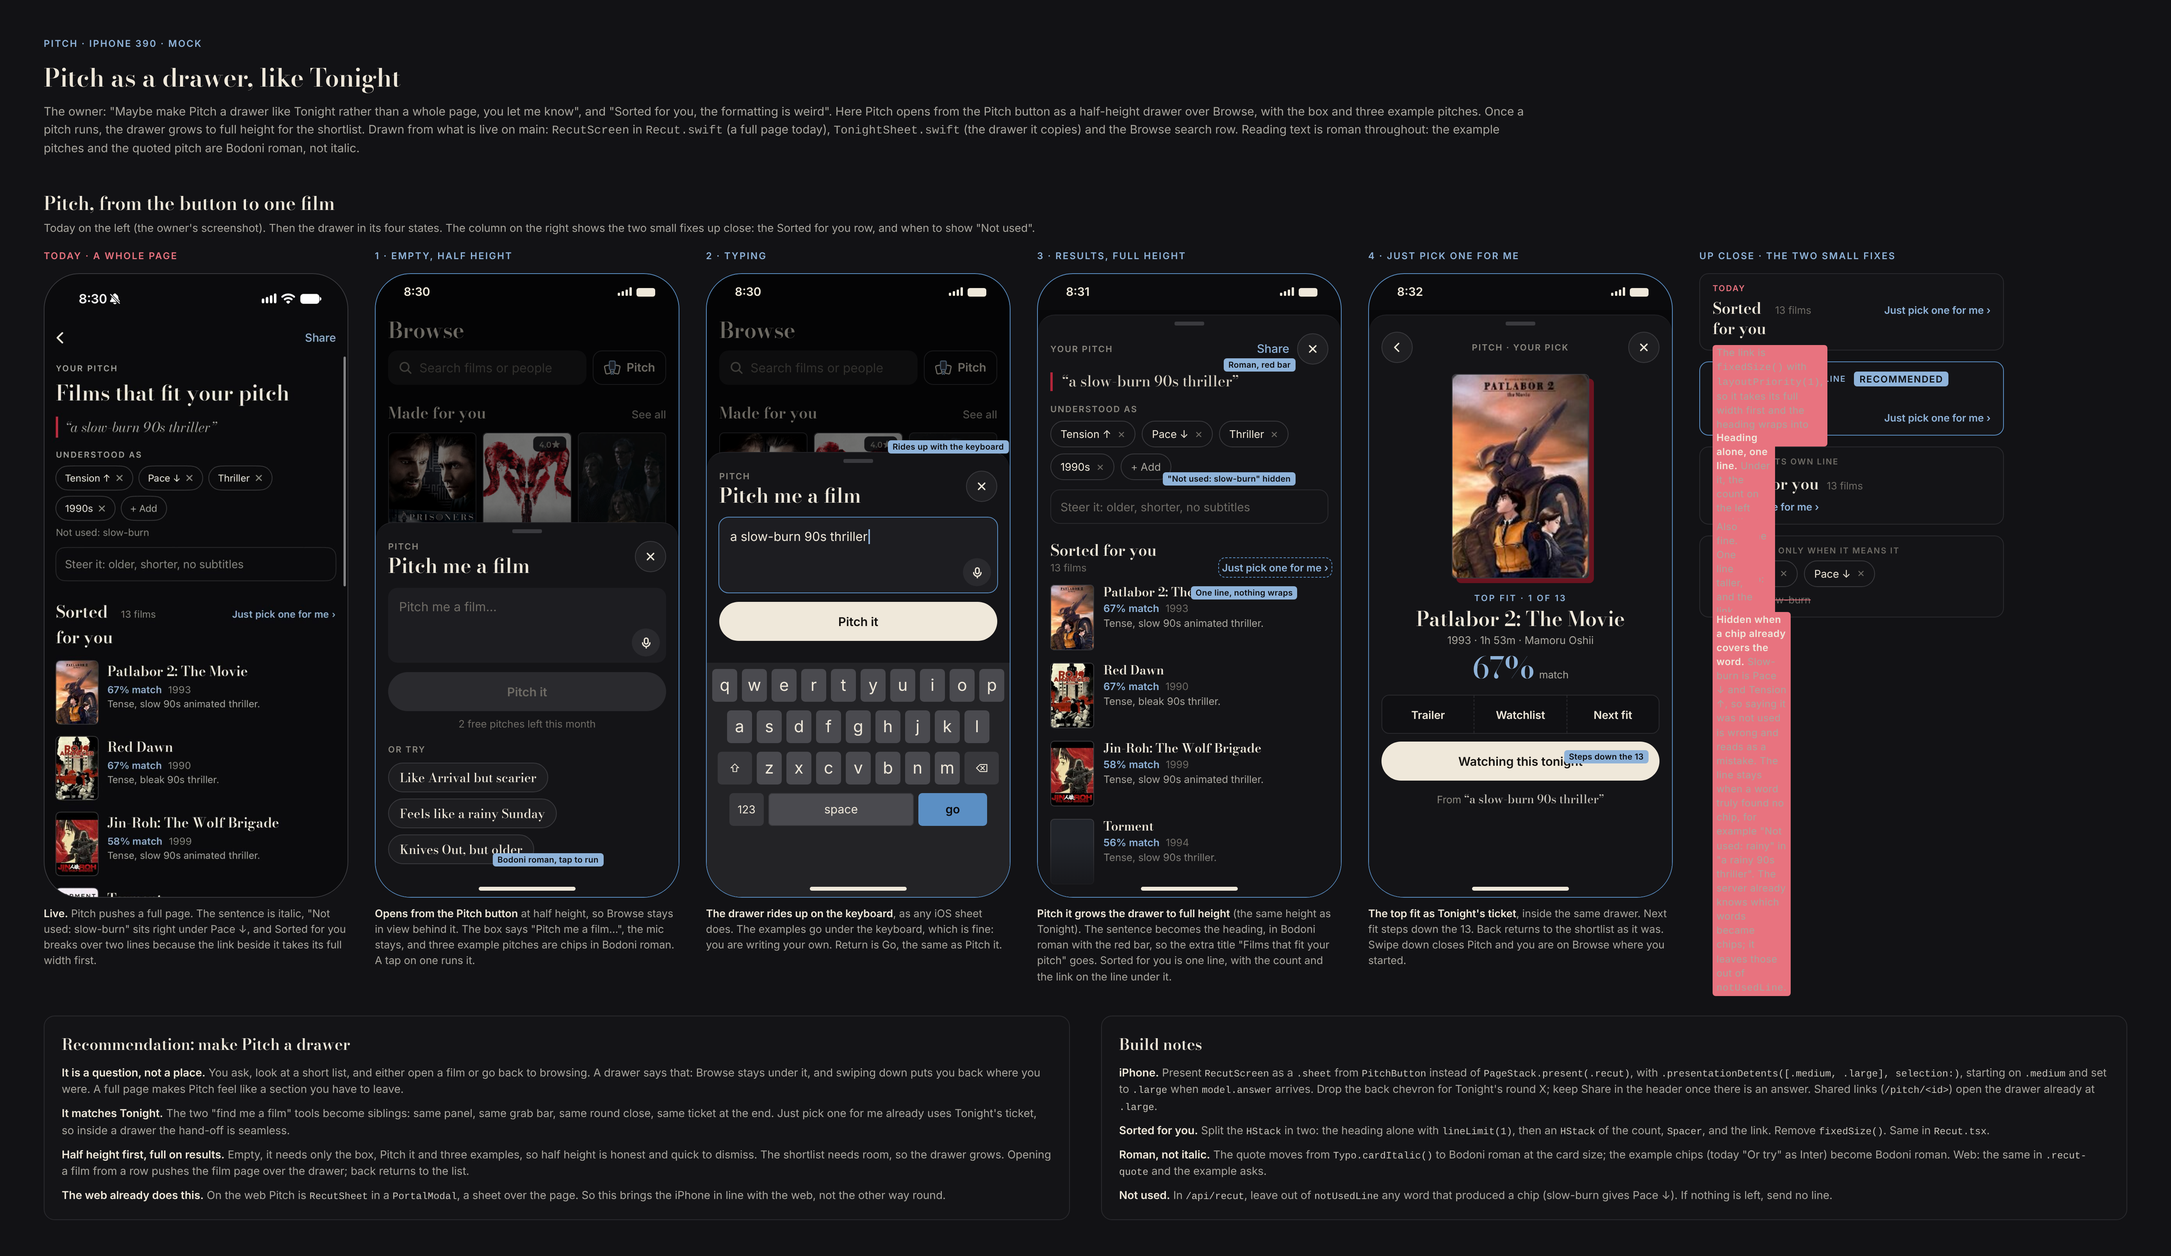
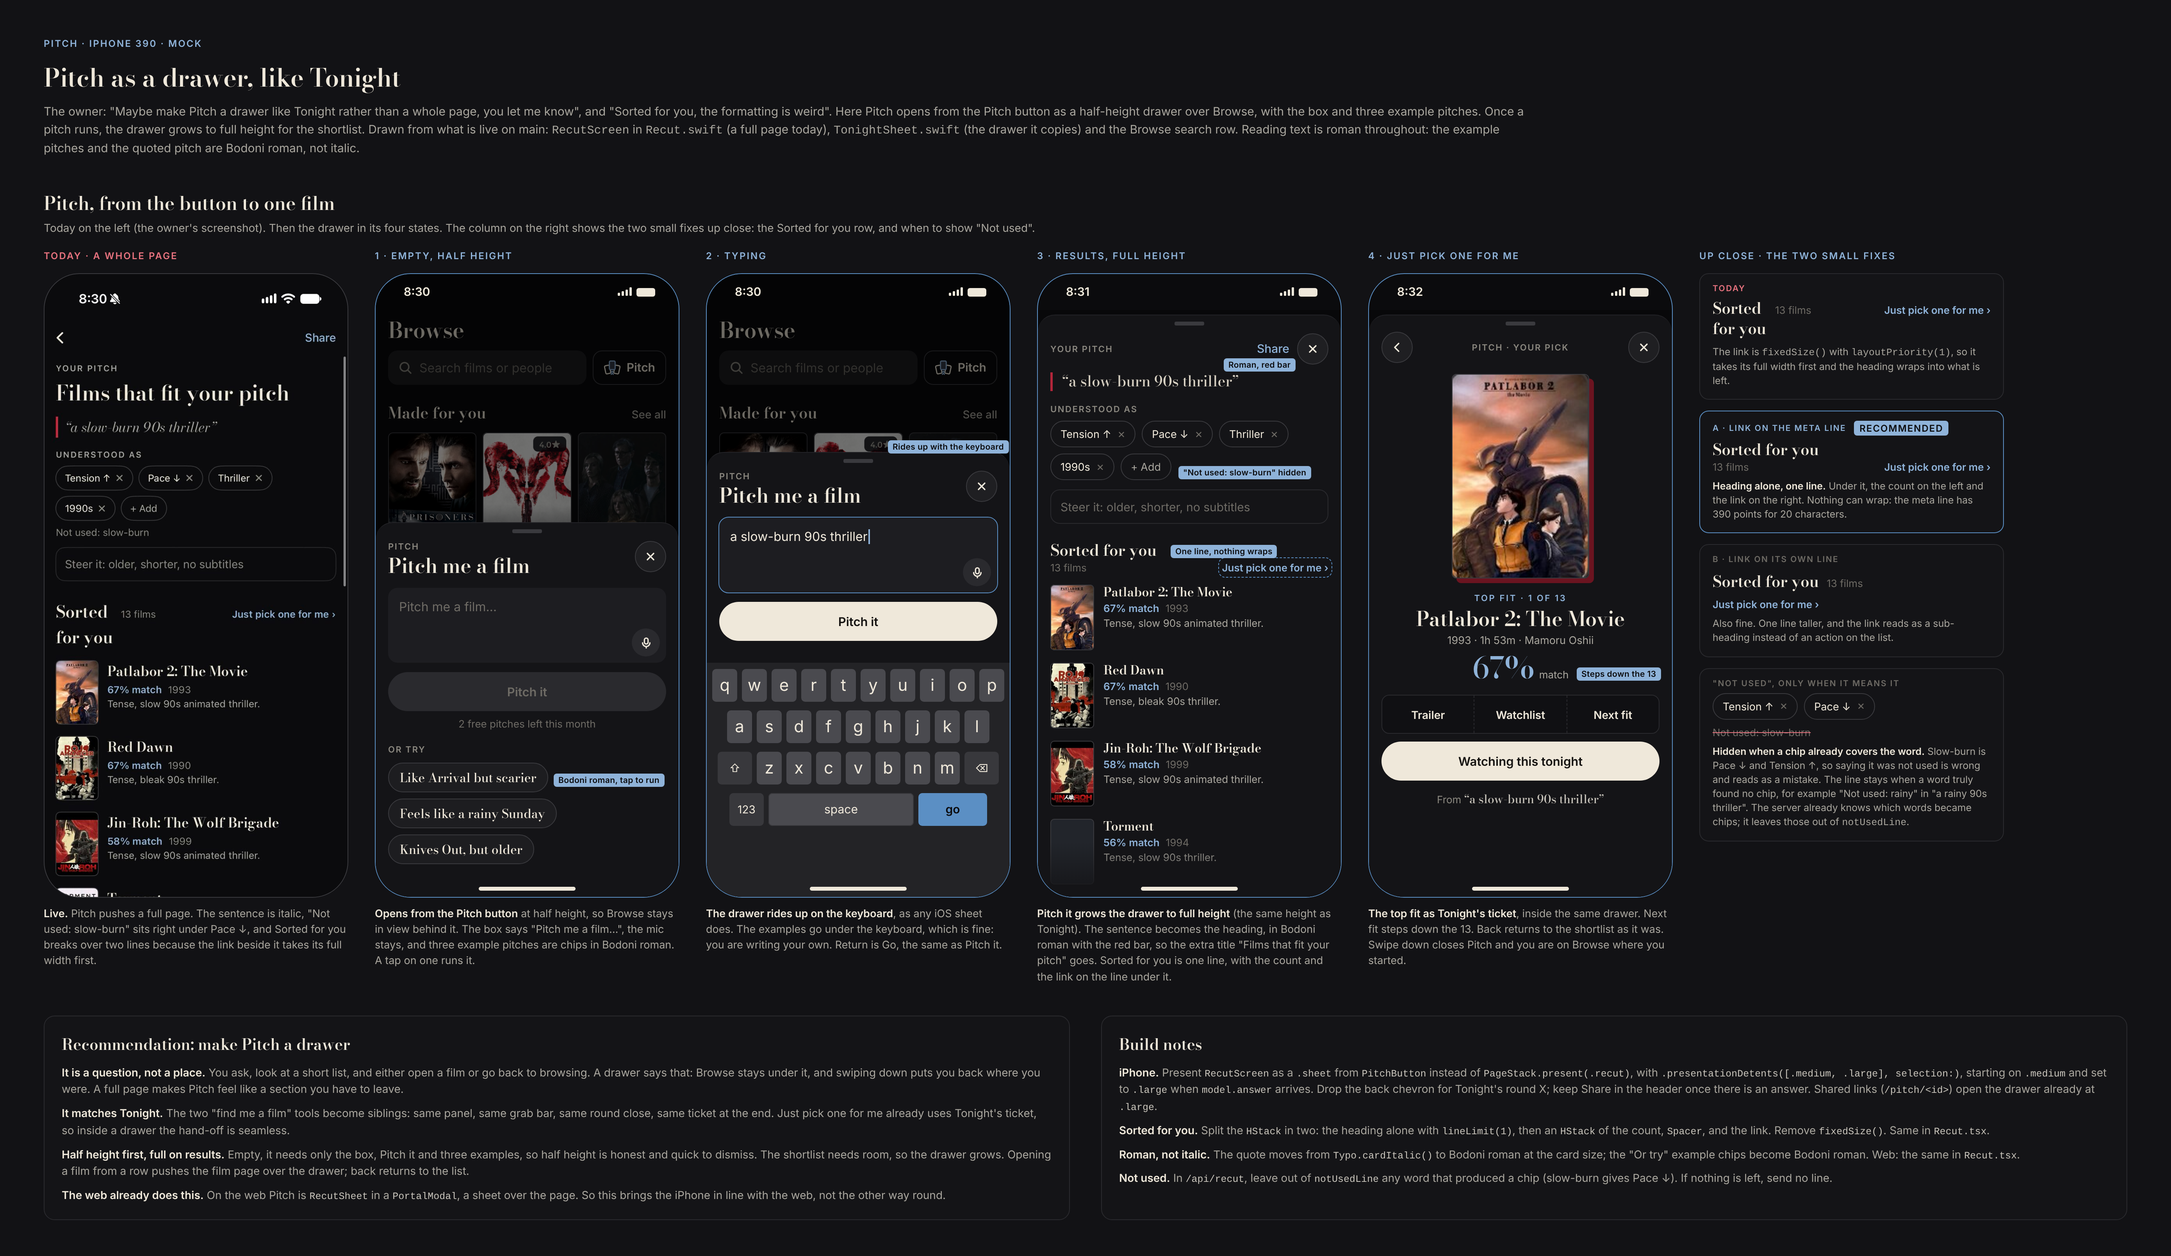
Pitch drawer v1 and search vs Pitch v1: drawer states, Sorted for you fix, separate jobs with a bridge
Claude-Session: https://claude.ai/code/session_013WRDCFXH8nihP92apJAVW7

diff --git a/mockups/journeys/pitch-search-v1.html b/mockups/journeys/pitch-search-v1.html
@@ -1,0 +1,93 @@
+<!doctype html><html><head><meta charset="utf-8"><title>Search and Pitch</title>
+<link href="https://fonts.googleapis.com/css2?family=Bodoni+Moda:ital,opsz,wght@0,6..96,500;0,6..96,600&family=Inter:wght@400;500;600;700&display=block" rel="stylesheet">
+<link rel="stylesheet" href="../proportions-common.css"><link rel="stylesheet" href="beli.css"><link rel="stylesheet" href="owner-notes.css"><link rel="stylesheet" href="pitch-kit.css">
+<style>
+.alt{flex:none;width:640px;border:1px dashed #3A3A3E;border-radius:16px;padding:16px 18px 18px;margin-left:16px}
+.alt .row{gap:18px}.alt .row>div{width:281px}
+.alt .sm{width:390px;height:800px;transform:scale(.72);transform-origin:0 0}
+.alt .holder{width:281px;height:576px;position:relative}
+.alt .holder .phone{position:absolute;left:0;top:0}
+.alt h3{font:600 20px 'Bodoni Moda';margin:4px 0 4px}
+.alt .cap{max-width:281px;font-size:12.5px}
+.grp{font:600 11px Inter;letter-spacing:1.3px;text-transform:uppercase;color:#8A877F;margin-top:18px}
+</style></head><body>
+<div class="tag">Browse search and Pitch · iPhone 390 · mock</div>
+<h1>Search for what you know, Pitch for what you don't</h1>
+<p class="lede">The owner: "Should we keep Describe and regular search separate, or put them together?" Today they are half merged: the field says "Describe a film, or a title", its open state leads with three italic "Describe it" sentences, and a sentence typed there can turn into a Pitch. Here they get one job each. The search field finds things you can name: a film, a person. The Pitch button (and its drawer, see <code>pitch-drawer-v1</code>) is for a film you can only describe. When someone types a sentence into search anyway, one row offers to Pitch it instead, and nothing is spent until they say so.</p>
+
+<div style="display:flex;align-items:flex-start">
+<div>
+<div class="h2">Recommended: two jobs, one bridge</div>
+<p class="h2s">Today on the left, then search open, a title typed, a sentence typed, and the Pitch drawer it opens.</p>
+<div class="row">
+<div><div class="tag bad">Today · search open</div><div class="phone" style="background:url(../img/owner-search-today.jpg) top center/390px auto no-repeat"></div>
+<p class="cap"><b>Live.</b> "Describe a film, or a title" asks two things at once. Describe it, with three italic sentences, fills the top of the screen above the filters and your recent searches.</p></div>
+
+<div><div class="tag">1 · Search open</div><div class="phone new" id="s1"></div>
+<p class="cap"><b>"Search films or people".</b> The Describe it sentences go, so filters and Recent move up to where your thumb is. Describing a film lives on the Pitch button, which stays pinned beside the field on Browse.</p></div>
+
+<div><div class="tag">2 · A title</div><div class="phone new" id="s2"></div>
+<p class="cap"><b>A name stays a search.</b> Two words, no cue words: titles and people, exactly as now, with no Pitch row competing for the top.</p></div>
+
+<div><div class="tag">3 · A sentence</div><div class="phone new" id="s3"></div>
+<p class="cap"><b>"Pitch this instead ›" on top</b> once the query reads like a sentence: four or more words, or a cue word such as like, but, something, for when, feels. Ordinary results still follow, so a long real title ("Something Wild", "Like Crazy") is still one row down.</p></div>
+
+<div><div class="tag">4 · The drawer, prefilled</div><div class="phone new" id="s4"></div>
+<p class="cap"><b>Opens Pitch at half height with the sentence in the box.</b> It does not run on its own: Pitch it spends one of the free pitches, so that stays one deliberate tap. Return in the search field still searches.</p></div>
+</div>
+</div>
+
+<div class="alt">
+<div class="tag" style="color:#A9A69E">Alternative · one merged box</div>
+<h3>No Pitch button, Pitch is a row</h3>
+<p class="cap" style="max-width:600px;margin:0 0 12px">One field for everything. The Pitch button goes, and a sentence turns into a Pitch row at the top of the results.</p>
+<div class="row">
+<div><div class="holder"><div class="phone sm" id="m1"></div></div>
+<p class="cap"><b>Open.</b> The placeholder has to explain two jobs, and with no button nothing on screen says Pitch exists until you type a sentence.</p></div>
+<div><div class="holder"><div class="phone sm" id="m2"></div></div>
+<p class="cap"><b>A sentence.</b> Works, and it is tidy. But Pitch, the feature with its own name and a monthly allowance, is reduced to a search result most people never trigger.</p></div>
+</div>
+</div>
+</div>
+
+<div class="verdict">
+<div class="vc"><h3>Recommendation: keep them separate, with one bridge</h3>
+<p><b>Two different questions.</b> Search answers "where is the thing I can name", and wants to be instant, free and literal. Pitch answers "what should I watch that is like this", is slower, ranked by your match, and counts against free pitches. One box that tries to guess which you meant gets both a little wrong: today a title can be mistaken for a description, and the field's open state is half filled with prompts for the other job.</p>
+<p><b>The button keeps Pitch discoverable.</b> It is pinned beside the field with its own mark, and opens the drawer. The merged box hides Pitch behind typing a sentence, which most people will not try in a search field.</p>
+<p><b>The bridge catches the rest.</b> When a sentence lands in search, the top row offers Pitch, and the drawer opens with the sentence already in it. Nobody has to retype, and nobody spends a pitch by accident.</p></div>
+<div class="vc"><h3>Build notes</h3>
+<p><b>iPhone.</b> In <code>BrowseScreen</code>, the placeholder becomes "Search films or people" whether or not Pitch is on; remove <code>describeIt</code> from the empty state. <code>recutRow</code> becomes "Pitch this instead ›" with the sentence under it, and opens the Pitch drawer with the sentence as a prefill (<code>RecutLink(prefill:)</code>, not <code>sentence:</code>, so it does not run). <code>onSubmit</code> stops calling <code>openRecut</code>: Return searches.</p>
+<p><b>The sentence test.</b> Widen <code>RecutEntry.looksLikeDescription</code>: true at four or more words, or any of like, but, something, anything, for when, feels, meets; still false when the query is exactly a film's title.</p>
+<p><b>Web.</b> The same in <code>GlobalSearch.tsx</code> and <code>BrowseHub.tsx</code> (placeholder), the Describe it block in <code>Recut.tsx</code> goes, and its search row opens <code>RecutSheet</code> on its ask with the sentence filled in.</p></div>
+</div>
+
+<script src="pitch-kit.js"></script>
+<script>
+const BAR=(q,f,ph)=>`<div class="sbar"><div class="fld${f?' f':''}">${GLASS}${q||ph||'Search films or people'}${f?'<span style="display:inline-block;width:2px;height:19px;background:#8FB3D9;margin-left:1px"></span>':''}</div><span class="cancel">Cancel</span></div>`;
+const FCH=`<div class="fch"><span class="on">${SLIDERS}Every film</span><span>Hidden gems</span><span>Highest rated</span><span>New</span></div>`;
+const rr=(p,a,b,x)=>`<div class="rr">${p.startsWith('@')?`<div class="face">${p.slice(1)}</div>`:`<div class="po" style="background-image:url(../img/${p})"></div>`}<div class="tx"><div class="a">${a}</div><div class="b">${b}</div></div>${x?'<span class="xx">✕</span>':''}</div>`;
+const RECENT=rr('prisoners.png','Prisoners','2013 · Denis Villeneuve',1)+rr('wailing.png','The Wailing','2016 · Na Hong-jin',1)+rr('hereditary.png','Hereditary','2018 · Ari Aster',1)+rr('inception.png','Inception','2010 · Christopher Nolan',1)+rr('@DV','Denis Villeneuve','Director · 7 of 11 seen · avg 4.5★',1);
+const openState=(ph)=>SBAR('8:31')+BAR('',false,ph)+`<div class="sc">${FCH}<div class="hrow"><h4>Recent</h4><span>Clear</span></div>${RECENT}<div class="hrow" style="margin-top:20px"><h4>Your people are watching</h4></div>
+<div style="display:flex;gap:10px;margin-top:10px">${['midsommar','witch','suspiria'].map(p=>`<div class="po" style="width:110px;height:150px;background-image:url(../img/${p}.png)"></div>`).join('')}</div></div>${HOME}`;
+document.getElementById('s1').innerHTML=openState()+`<span class="callout" style="left:120px;top:204px">Describe it removed</span>`;
+document.getElementById('s2').innerHTML=SBAR('8:31')+BAR('prisoners',true)+`<div class="sc"><div class="grp">Films</div>`+
+rr('prisoners.png','Prisoners','2013 · Denis Villeneuve · 4.5★')+rr('wailing.png','Prisoners of the Ghostland','2021 · Sion Sono')+
+`<div class="grp">People</div>`+rr('@HJ','Hugh Jackman','Actor in Prisoners')+rr('@JG','Jake Gyllenhaal','Actor in Prisoners')+`</div>${KEYS('search')}${HOME}`;
+document.getElementById('s3').innerHTML=SBAR('8:32')+BAR('something like prisoners but korean',true)+`<div class="sc">
+<div class="pitchrow hl"><div class="pm">${FAN}</div><div style="min-width:0"><div class="a">Pitch this instead ›</div><div class="b">Films that fit “something like prisoners but korean”, sorted for you</div></div></div>
+<div class="grp">Films</div>`+rr('prisoners.png','Prisoners','2013 · Denis Villeneuve · 4.5★')+`</div>${KEYS('search')}${HOME}
+<span class="callout" style="left:150px;top:112px">Sentence: 5 words, "like", "but"</span>`;
+document.getElementById('s4').innerHTML=SBAR('8:32')+BAR('something like prisoners but korean',false)+`<div class="dim"></div><div class="dw" style="top:318px"><div class="grab"></div>
+<div class="hd"><div><div class="lbl">Pitch</div><div class="t">Pitch me a film</div></div>${X}</div>
+<div class="sc"><div class="box f" style="outline:0">something like prisoners but korean${MIC}</div>
+<div class="go">Pitch it</div>
+<div class="free">2 free pitches left this month</div>
+<div class="lbl" style="margin-top:18px">Or try</div>
+<div class="ex">${EXAMPLES.slice(0,2).map(e=>`<span>${e}</span>`).join('')}</div></div></div>${HOME}
+<span class="callout" style="left:30px;top:462px">Prefilled, not run yet</span>`;
+// alternative: merged
+document.getElementById('m1').innerHTML=openState('Search, or describe a film');
+document.getElementById('m2').innerHTML=SBAR('8:32')+BAR('something like prisoners but korean',true)+`<div class="sc">
+<div class="pitchrow"><div class="pm">${FAN}</div><div style="min-width:0"><div class="a">Pitch “something like prisoners but korean”</div><div class="b">2 free pitches left this month</div></div></div>
+<div class="grp">Films</div>`+rr('prisoners.png','Prisoners','2013 · Denis Villeneuve · 4.5★')+`</div>${KEYS('search')}${HOME}`;
+</script></body></html>

diff --git a/mockups/journeys/pitch-drawer-v1.html b/mockups/journeys/pitch-drawer-v1.html
@@ -5,7 +5,7 @@
 .mini{border:1px solid #2A2A2E;border-radius:12px;background:#141417;padding:12px 16px 14px;margin-bottom:14px}
 .mini .lab{font:600 10.5px Inter;letter-spacing:1.2px;color:#6E6B65;text-transform:uppercase;margin-bottom:6px;display:flex;align-items:center;gap:6px}
 .mini .lab.g{color:#8FB3D9}.mini .lab.bad{color:#E8737F}
-.mini .note{font:400 12.5px/1.45 Inter;color:#A9A69E;margin-top:8px}.mini .note b{color:#EFE8DA;font-weight:600}
+.mini .mn{font:400 12.5px/1.45 Inter;color:#A9A69E;margin-top:8px}.mini .mn b{color:#EFE8DA;font-weight:600}
 .broken{display:flex;align-items:baseline;gap:10px}
 .broken h4{font:600 20px/1.3 'Bodoni Moda';width:70px;white-space:normal}
 .broken .n{font:400 13px Inter;color:#6E6B65}.broken .ql{margin-left:auto}
@@ -38,18 +38,18 @@
 <div class="tag">Up close · the two small fixes</div>
 <div class="mini"><div class="lab bad">Today</div>
 <div class="broken"><h4>Sorted for you</h4><span class="n">13 films</span><span class="ql">Just pick one for me ›</span></div>
-<div class="note">The link is <code>fixedSize()</code> with <code>layoutPriority(1)</code>, so it takes its full width first and the heading wraps into what is left.</div></div>
+<div class="mn">The link is <code>fixedSize()</code> with <code>layoutPriority(1)</code>, so it takes its full width first and the heading wraps into what is left.</div></div>
 <div class="mini" style="border-color:#5B8FC4"><div class="lab g">A · Link on the meta line <span class="tag rec">Recommended</span></div>
 <div class="srt" style="margin-top:0"><h4>Sorted for you</h4><div class="ml"><span class="n">13 films</span><span class="ql">Just pick one for me ›</span></div></div>
-<div class="note"><b>Heading alone, one line.</b> Under it, the count on the left and the link on the right. Nothing can wrap: the meta line has 390 points for 20 characters.</div></div>
+<div class="mn"><b>Heading alone, one line.</b> Under it, the count on the left and the link on the right. Nothing can wrap: the meta line has 390 points for 20 characters.</div></div>
 <div class="mini"><div class="lab">B · Link on its own line</div>
 <div style="display:flex;align-items:baseline;gap:10px"><span style="font:600 20px 'Bodoni Moda'">Sorted for you</span><span class="n" style="font:400 13px Inter;color:#6E6B65">13 films</span></div>
 <div class="ql" style="margin-top:6px">Just pick one for me ›</div>
-<div class="note">Also fine. One line taller, and the link reads as a sub-heading instead of an action on the list.</div></div>
+<div class="mn">Also fine. One line taller, and the link reads as a sub-heading instead of an action on the list.</div></div>
 <div class="mini"><div class="lab">"Not used", only when it means it</div>
 <div class="pcs" style="margin-top:2px"><span class="pc">Tension ↑ <i>✕</i></span><span class="pc">Pace ↓ <i>✕</i></span></div>
 <div class="nu strike">Not used: slow-burn</div>
-<div class="note"><b>Hidden when a chip already covers the word.</b> Slow-burn is Pace ↓ and Tension ↑, so saying it was not used is wrong and reads as a mistake. The line stays when a word truly found no chip, for example "Not used: rainy" in "a rainy 90s thriller". The server already knows which words became chips; it leaves those out of <code>notUsedLine</code>.</div></div>
+<div class="mn"><b>Hidden when a chip already covers the word.</b> Slow-burn is Pace ↓ and Tension ↑, so saying it was not used is wrong and reads as a mistake. The line stays when a word truly found no chip, for example "Not used: rainy" in "a rainy 90s thriller". The server already knows which words became chips; it leaves those out of <code>notUsedLine</code>.</div></div>
 </div>
 </div>
 
@@ -62,7 +62,7 @@
 <div class="vc"><h3>Build notes</h3>
 <p><b>iPhone.</b> Present <code>RecutScreen</code> as a <code>.sheet</code> from <code>PitchButton</code> instead of <code>PageStack.present(.recut)</code>, with <code>.presentationDetents([.medium, .large], selection:)</code>, starting on <code>.medium</code> and set to <code>.large</code> when <code>model.answer</code> arrives. Drop the back chevron for Tonight's round X; keep Share in the header once there is an answer. Shared links (<code>/pitch/&lt;id&gt;</code>) open the drawer already at <code>.large</code>.</p>
 <p><b>Sorted for you.</b> Split the <code>HStack</code> in two: the heading alone with <code>lineLimit(1)</code>, then an <code>HStack</code> of the count, <code>Spacer</code>, and the link. Remove <code>fixedSize()</code>. Same in <code>Recut.tsx</code>.</p>
-<p><b>Roman, not italic.</b> The quote moves from <code>Typo.cardItalic()</code> to Bodoni roman at the card size; the example chips (today "Or try" as Inter) become Bodoni roman. Web: the same in <code>.recut-quote</code> and the example asks.</p>
+<p><b>Roman, not italic.</b> The quote moves from <code>Typo.cardItalic()</code> to Bodoni roman at the card size; the "Or try" example chips become Bodoni roman. Web: the same in <code>Recut.tsx</code>.</p>
 <p><b>Not used.</b> In <code>/api/recut</code>, leave out of <code>notUsedLine</code> any word that produced a chip (slow-burn gives Pace ↓). If nothing is left, send no line.</p></div>
 </div>
 
@@ -77,7 +77,7 @@ document.getElementById('d1').innerHTML=SBAR('8:30')+under+`<div class="dw" styl
 <div class="free">2 free pitches left this month</div>
 <div class="lbl" style="margin-top:18px">Or try</div>
 <div class="ex">${EXAMPLES.map(e=>`<span>${e}</span>`).join('')}</div></div></div>${HOME}
-<span class="callout" style="left:150px;top:742px">Bodoni roman, tap to run</span>`;
+<span class="callout" style="left:228px;top:640px">Bodoni roman, tap to run</span>`;
 // 2 · typing
 document.getElementById('d2').innerHTML=SBAR('8:30')+under+`<div class="dw" style="top:228px"><div class="grab"></div>
 <div class="hd"><div><div class="lbl">Pitch</div><div class="t">Pitch me a film</div></div>${X}</div>
@@ -95,8 +95,8 @@ ${SORTED(true)}
 <div style="margin-top:6px">${FILMS.map(frow).join('')}</div></div>
 <div class="fade"></div></div>${HOME}
 <span class="callout" style="left:238px;top:108px">Roman, red bar</span>
-<span class="callout" style="left:160px;top:254px">"Not used: slow-burn" hidden</span>
-<span class="callout" style="left:196px;top:400px">One line, nothing wraps</span>`;
+<span class="callout" style="left:180px;top:246px">"Not used: slow-burn" hidden</span>
+<span class="callout" style="left:170px;top:347px">One line, nothing wraps</span>`;
 // 4 · just pick one
 document.getElementById('d4').innerHTML=SBAR('8:32')+`<div style="position:absolute;inset:46px 0 0;background:#08080A"></div><div class="dw" style="top:52px"><div class="grab"></div>
 <div class="hd" style="align-items:center;padding-top:8px">${BACK}<span class="lbl">Pitch · Your pick</span>${X}</div>
@@ -110,5 +110,5 @@ document.getElementById('d4').innerHTML=SBAR('8:32')+`<div style="position:absol
 <div class="go" style="margin:10px 16px 0">Watching this tonight</div>
 <div style="text-align:center;margin-top:12px;font:400 13px Inter;color:#8A877F">From <span style="font:500 15px 'Bodoni Moda';color:#C9C5BC">“a slow-burn 90s thriller”</span></div>
 </div>${HOME}
-<span class="callout" style="left:250px;top:610px">Steps down the 13</span>`;
+<span class="callout" style="left:266px;top:504px">Steps down the 13</span>`;
 </script></body></html>
